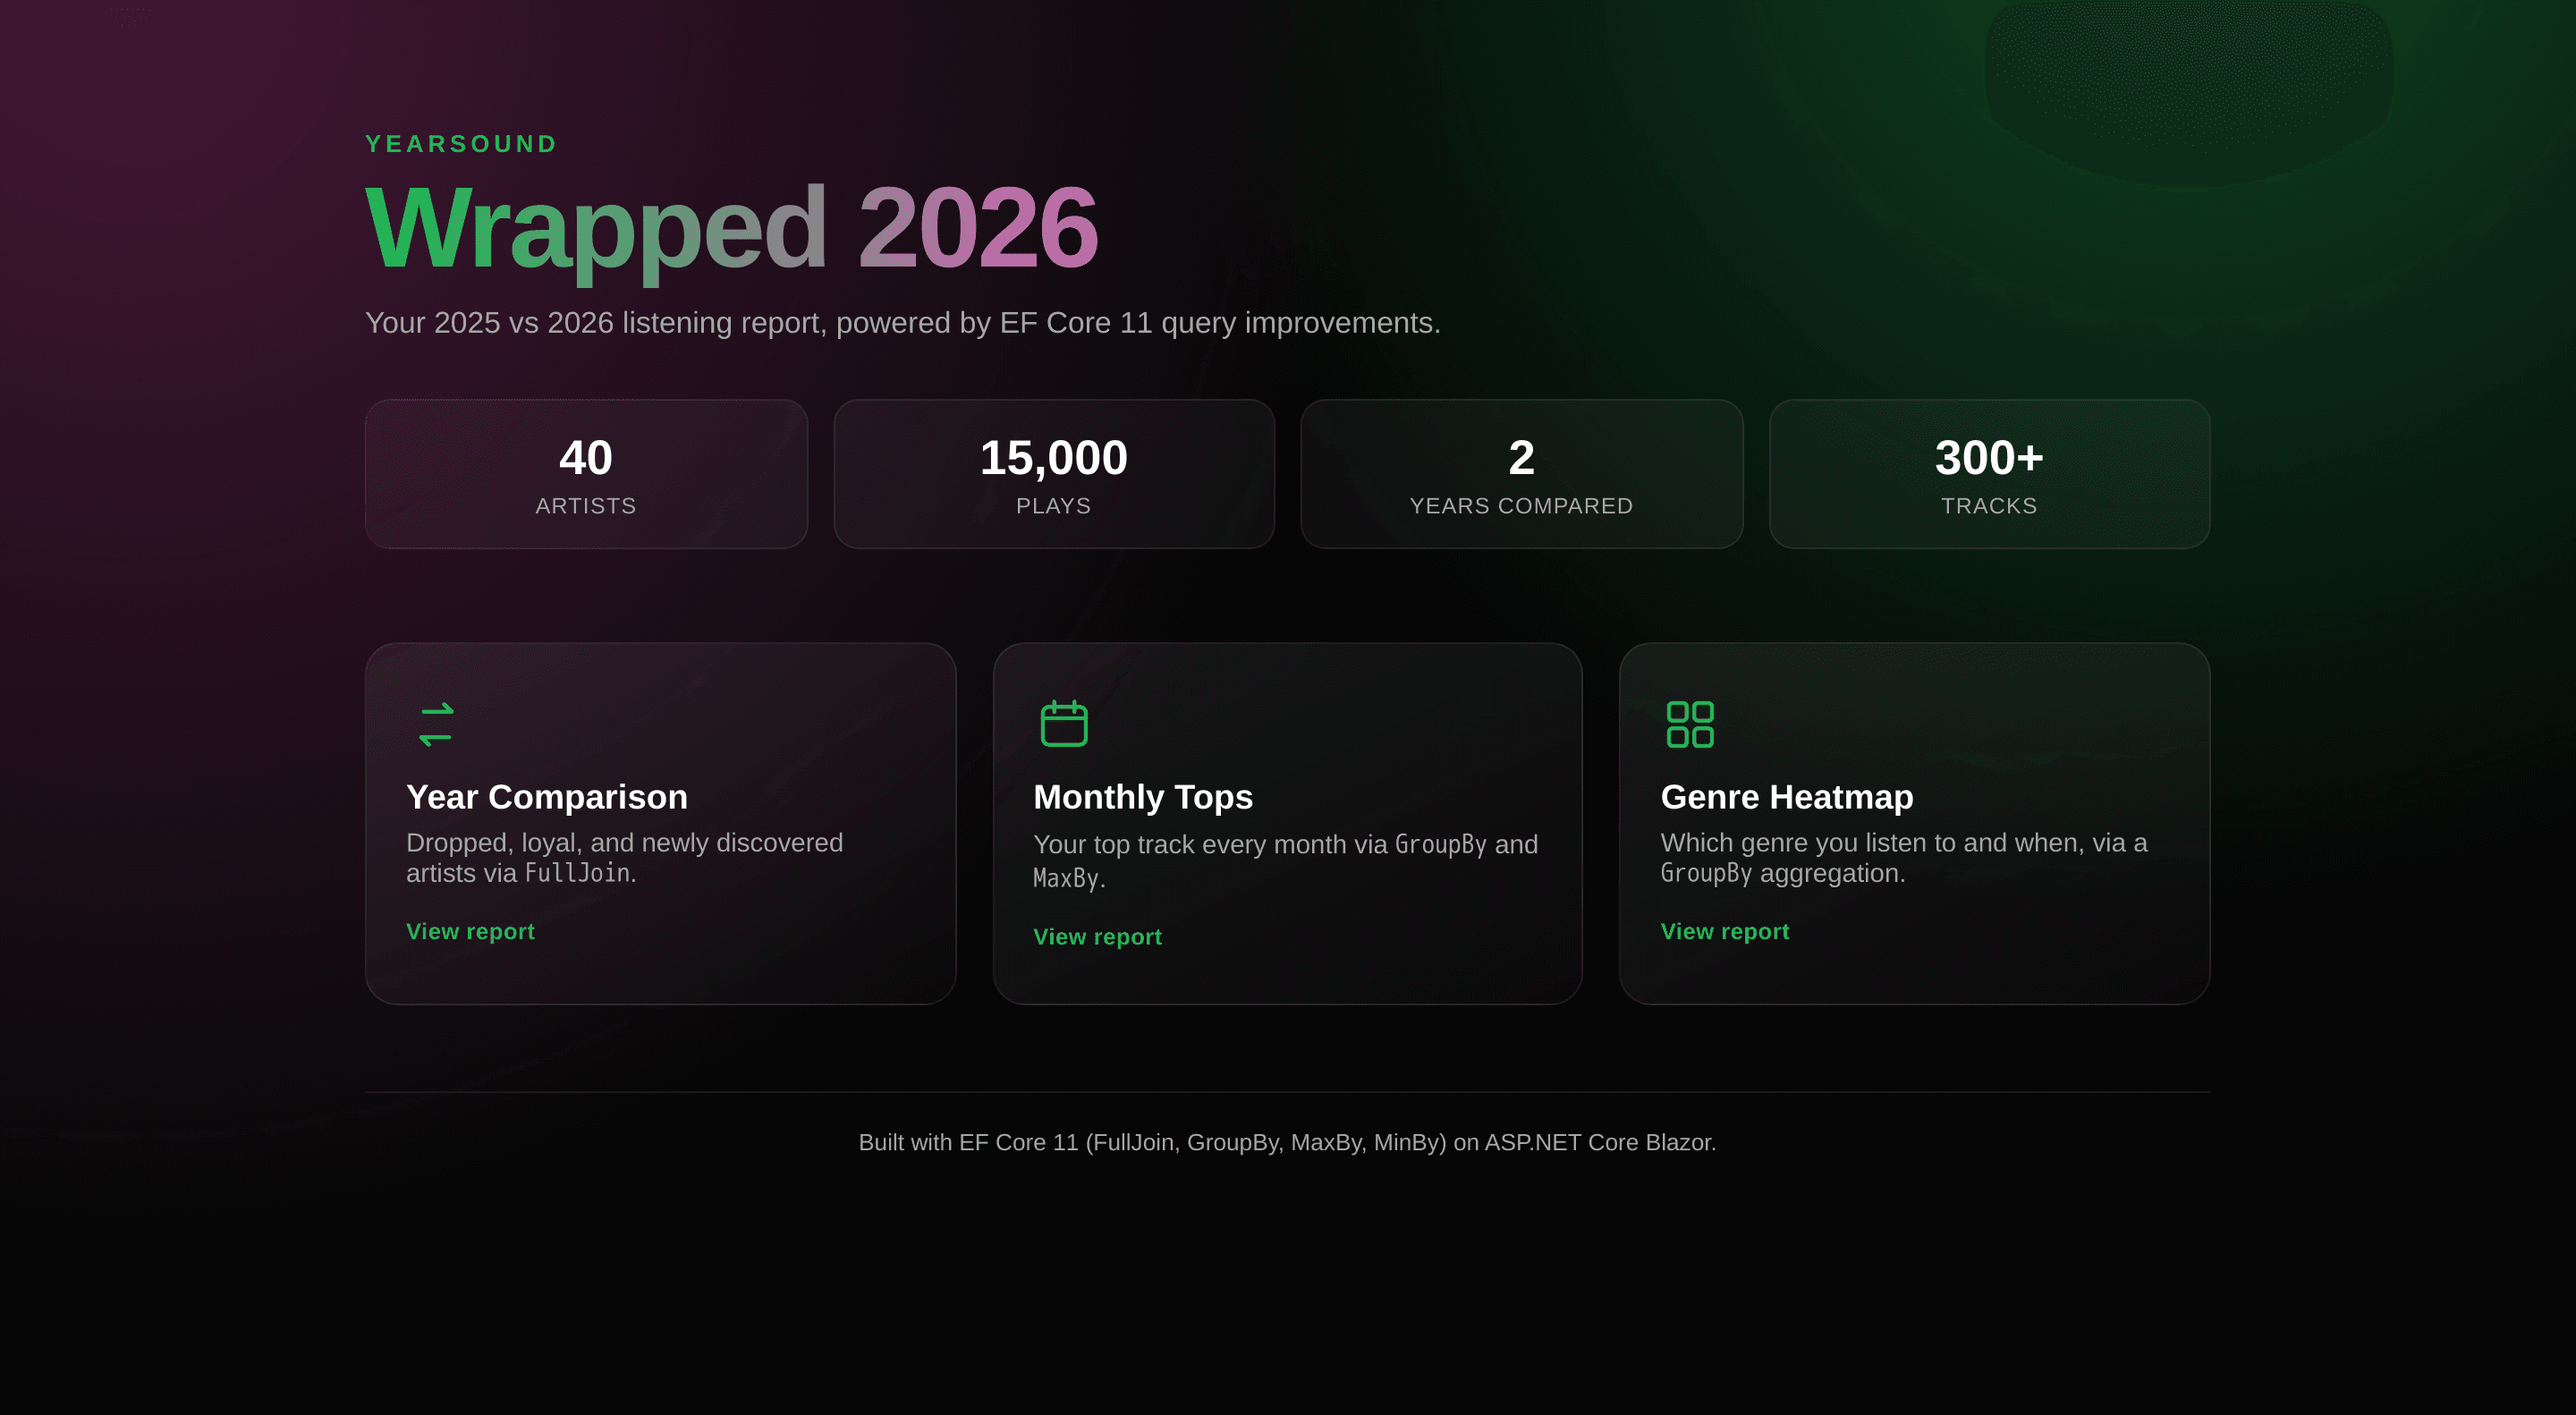
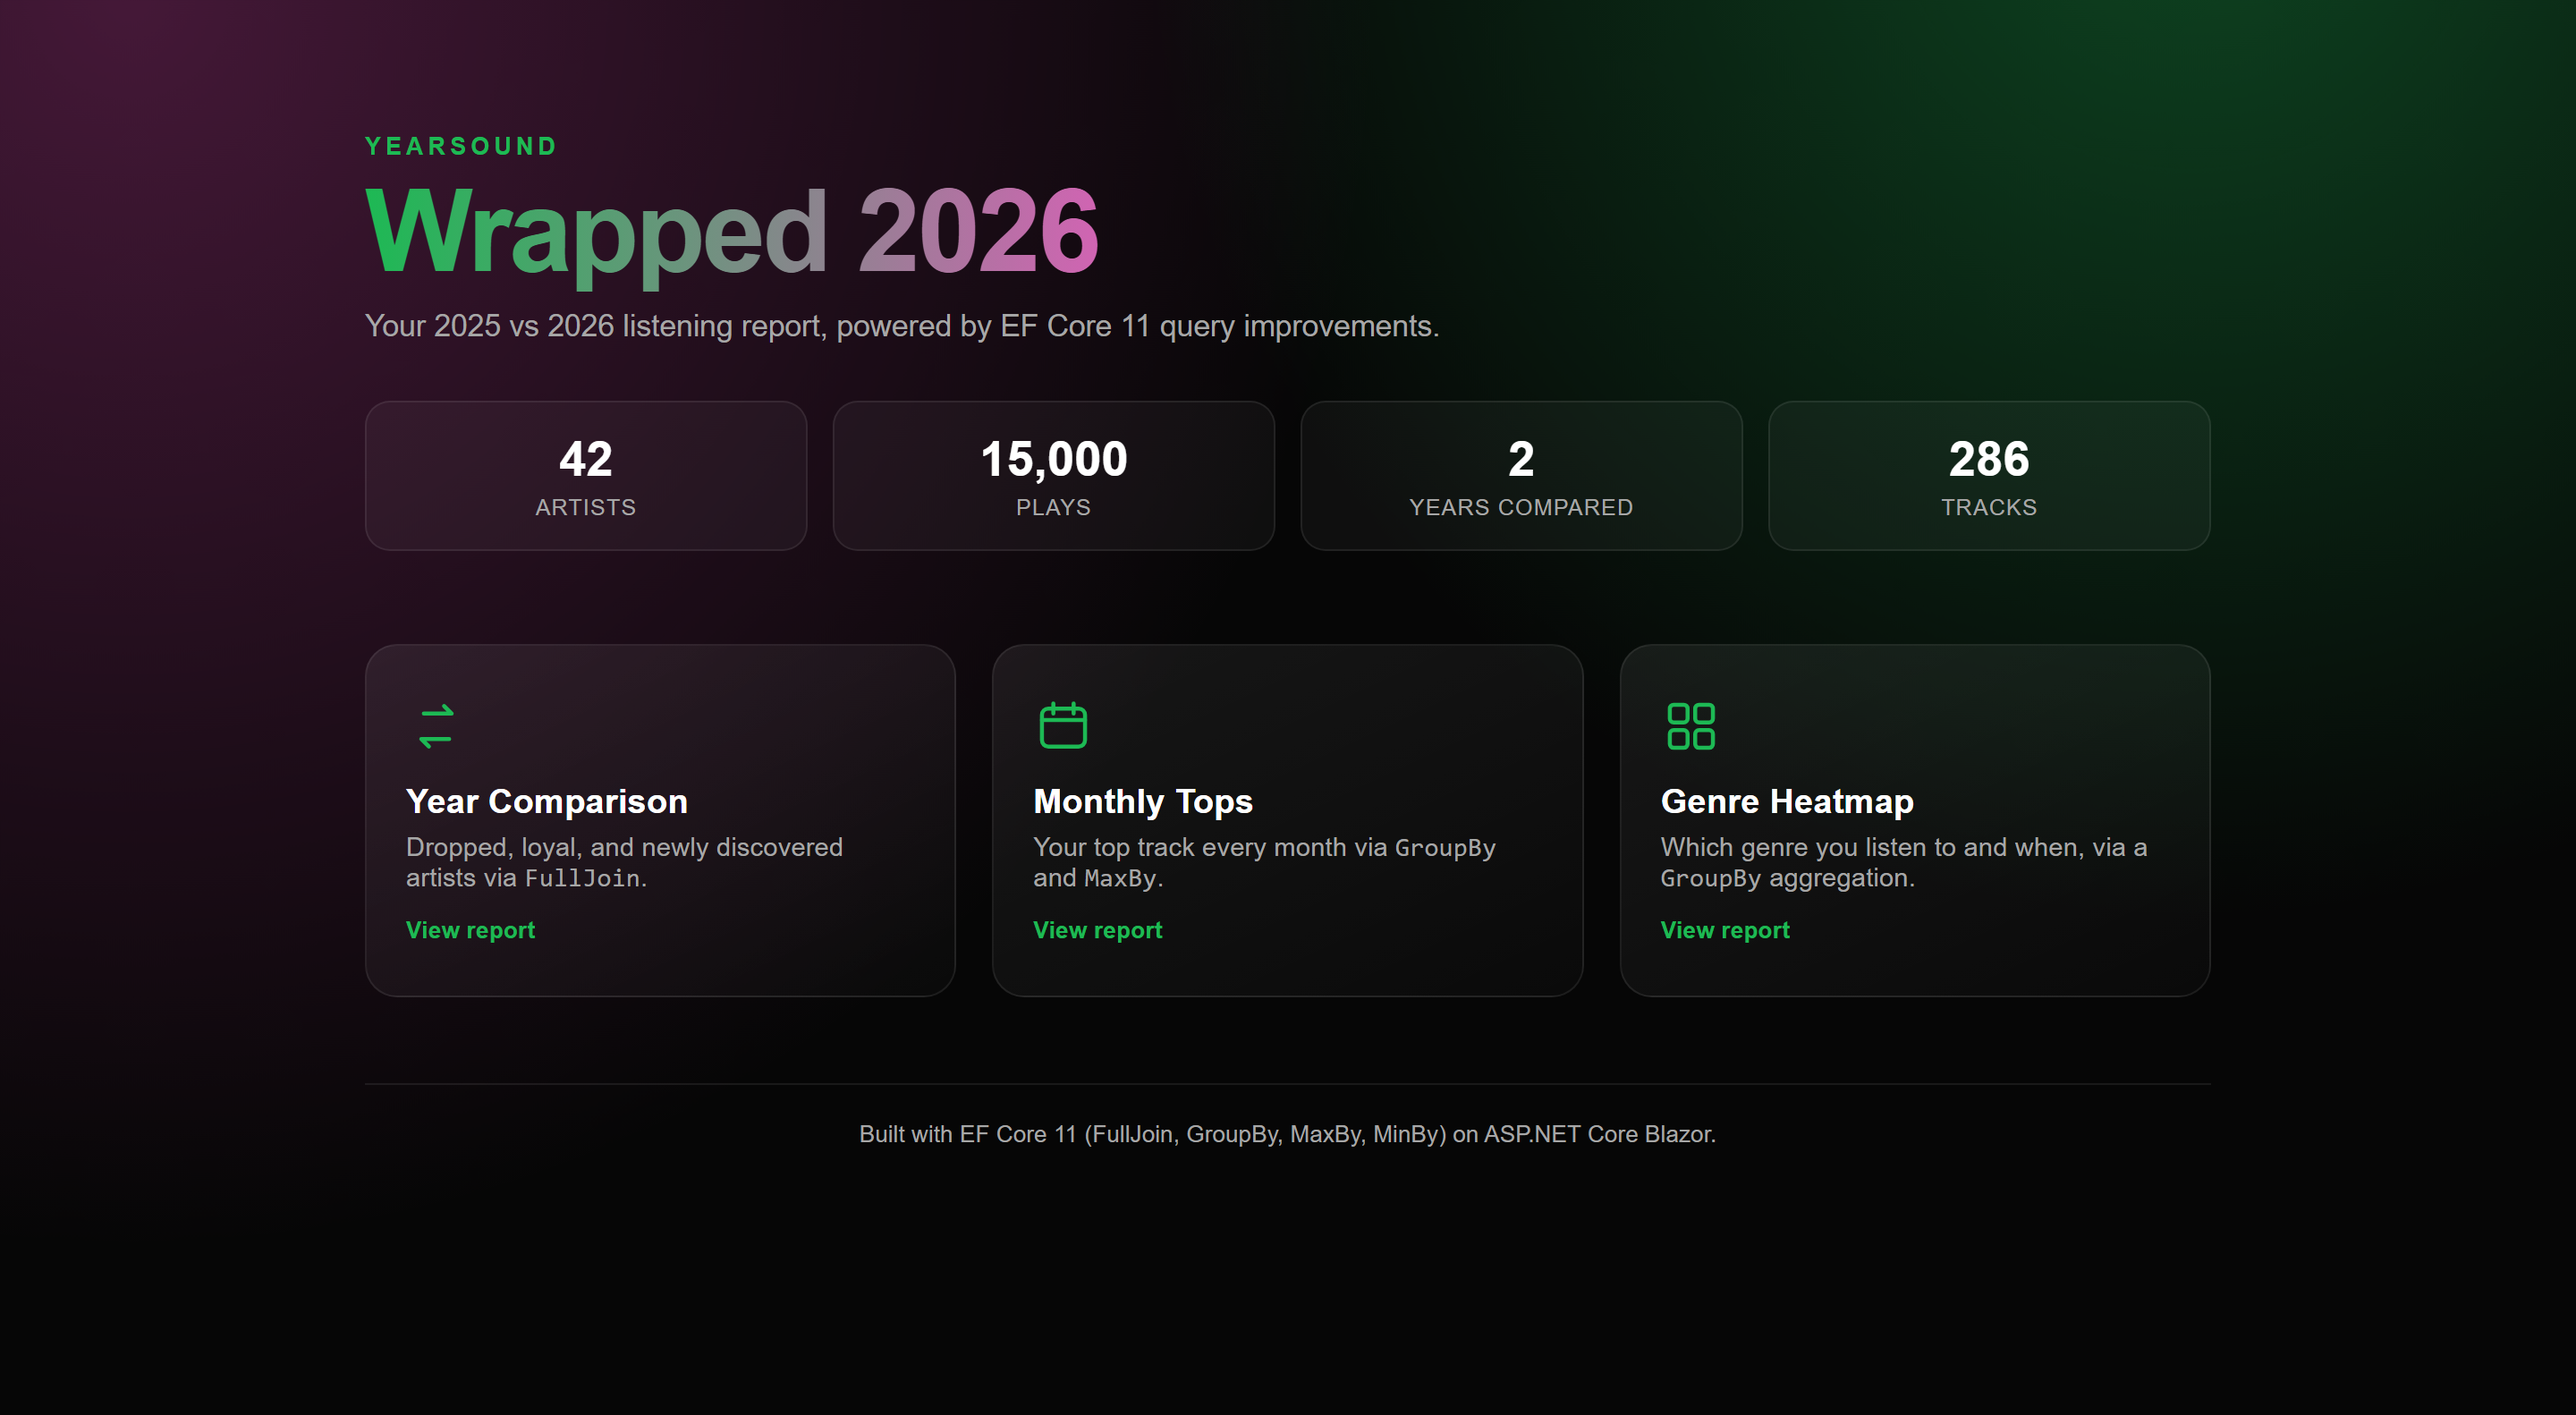
Refresh EF Core 11 query article
Update the EF Core 11 query improvements article to reflect the final demo dataset and add concrete SQL examples for the MinByAsync/MaxByAsync query behavior. This also refreshes the article's home image to match the revised content.

diff --git a/docs/en/Community-Articles/2026-09-27-ef-core-11-query-improvements/post.md b/docs/en/Community-Articles/2026-09-27-ef-core-11-query-improvements/post.md
@@ -4,7 +4,7 @@ Every December, music streaming apps ship the same ritual: a personalized, share
 
 That's the premise of this article. EF Core 11 (currently shipping as `11.0.0-rc.1`) ships a handful of LINQ-to-SQL translation improvements that sound small on paper but remove real friction from everyday reporting code: a native `FullJoin`, a smarter translation for `GroupBy` combined with a per-group `MaxBy`/`MinBy`, and a split-query optimization that stops a to-one navigation from leaking a join into collection statements it doesn't belong in. The official release notes describe *that* these exist. Some come with a short SQL sample; others, like the `GroupBy` enhancements, are covered by a paragraph and a list of GitHub PRs. None of them answer the one question every EF developer actually cares about: does this really collapse into one round-trip, or am I about to ship an N+1?
 
-To answer that with evidence instead of trust, we built a small, deliberately "boring" business domain around a subject everyone already understands: an end-of-year music listening report in the style of the year-end listening recaps most streaming apps publish. We called it **YearSound Wrapped**. It's a plain ASP.NET Core Blazor Server app on a Clean Architecture layout (Domain / Application / Infrastructure / Web, no extra framework on top), backed by SQL Server, seeded with 40 artists and roughly 15,000 play events across two years. Every query in this article runs against that real dataset, and every SQL snippet below is a real captured execution (`ToQueryString()` or logged `DbCommand` text) rather than a guess.
+To answer that with evidence instead of trust, we built a small, deliberately "boring" business domain around a subject everyone already understands: an end-of-year music listening report in the style of the year-end listening recaps most streaming apps publish. We called it **YearSound Wrapped**. It's a plain ASP.NET Core Blazor Server app on a Clean Architecture layout (Domain / Application / Infrastructure / Web, no extra framework on top), backed by SQL Server, seeded with 42 artists, 286 tracks and roughly 15,000 play events across two years. Every query in this article runs against that real dataset, and every SQL snippet below is a real captured execution (`ToQueryString()` or logged `DbCommand` text) rather than a guess.
 
 ![YearSound Wrapped home screen](home.png)
 
@@ -274,7 +274,9 @@ public async Task<string?> GetHiddenGemTrackTitleAsync(CancellationToken ct = de
 
 ### The generated SQL
 
-Both compile to a `TOP(1) ... ORDER BY` query with the comparison key computed as a correlated subquery. No client evaluation is involved:
+Both compile to a `TOP(1) ... ORDER BY` query with the comparison key computed as a correlated subquery. No client evaluation is involved.
+
+Top artist (`MaxByAsync`):
 
 ```sql
 DECLARE @p int = 1;
@@ -286,6 +288,22 @@ ORDER BY (
     INNER JOIN [PlayEvents] AS [p] ON [t].[Id] = [p].[TrackId]
     WHERE [a].[Id] = [t].[ArtistId]) DESC
 ```
+
+Hidden gem (`MinByAsync`):
+
+```sql
+DECLARE @p int = 1;
+
+SELECT TOP(@p) [t].[Id], [t].[ArtistId], [t].[Duration], [t].[Title]
+FROM [FavoriteTracks] AS [f]
+INNER JOIN [Tracks] AS [t] ON [f].[TrackId] = [t].[Id]
+ORDER BY (
+    SELECT COUNT(*)
+    FROM [PlayEvents] AS [p]
+    WHERE [t].[Id] = [p].[TrackId])
+```
+
+The shape is the same; the only difference is the sort direction. `MaxByAsync` orders the key `DESC`, while `MinByAsync` keeps the default ascending order, so `TOP(1)` picks the favorite with the fewest plays.
 
 ### Edge case: empty sequences
 
